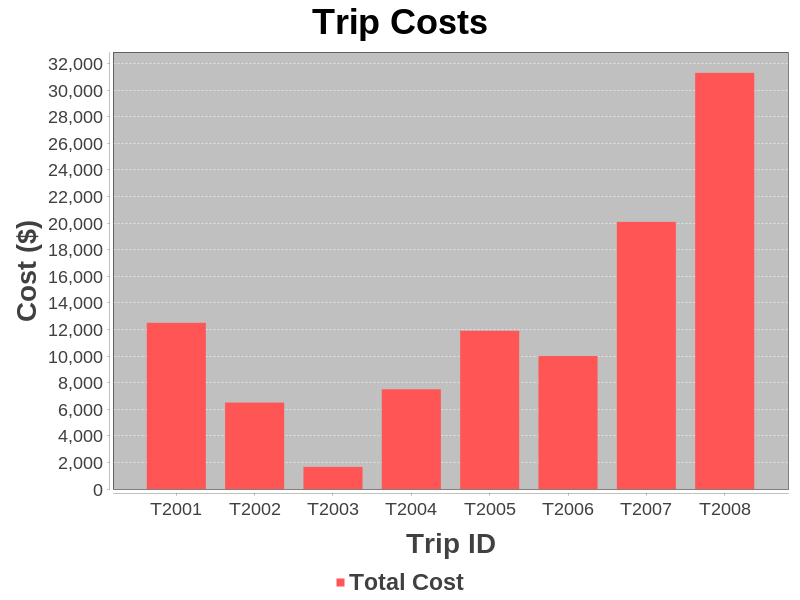
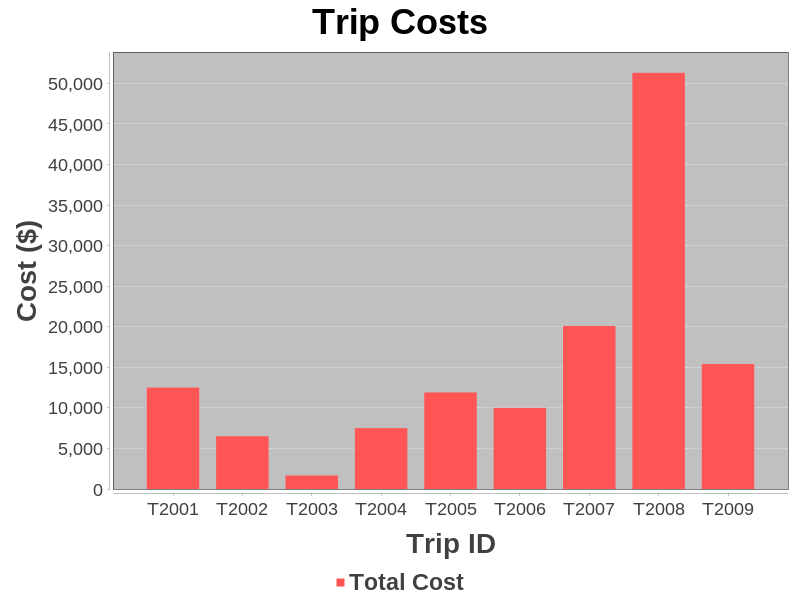
done a3

Changed region(s): [[0.1562, 0.12, 0.9688, 0.87], [0.0625, 0.09, 0.1562, 0.78], [0.1875, 0.84, 0.25, 0.87]]

diff --git a/output/dashboard/dashboard.html b/output/dashboard/dashboard.html
@@ -10,7 +10,7 @@
     <div class='container'>
         <header>
             <h1>SmartTravel Dashboard</h1>
-            <p>A2: File I/O + Exceptions | 4 Clients | 8 Trips</p>
+            <p>A3 | 4 Clients | 9 Trips</p>
         </header>
         <section class='data-section'>
             <h2> Clients (4)</h2>
@@ -35,19 +35,19 @@
                         <td><strong>C1003</strong></td>
                         <td>bob hank</td>
                         <td>hank@gmail.com</td>
-                        <td style='font-weight: bold; color: #d32f2f;'>13,565.00</td>
+                        <td style='font-weight: bold; color: #d32f2f;'>28,965.00</td>
                     </tr>
                     <tr>
                         <td><strong>C1004</strong></td>
                         <td>testing logging</td>
                         <td>hope@this.works</td>
-                        <td style='font-weight: bold; color: #d32f2f;'>61,390.00</td>
+                        <td style='font-weight: bold; color: #d32f2f;'>81,390.00</td>
                     </tr>
                 </tbody>
             </table>
         </section>
         <section class='data-section'>
-            <h2> Trips (8)</h2>
+            <h2> Trips (9)</h2>
             <table>
                 <thead>
                     <tr><th>ID</th><th>Client</th><th>Destination</th><th>Days</th><th>Price</th></tr>
@@ -107,7 +107,14 @@
                         <td>C1004</td>
                         <td>montreal</td>
                         <td>20</td>
-                        <td>$31300.00</td>
+                        <td>$51300.00</td>
+                    </tr>
+                    <tr>
+                        <td><strong>T2009</strong></td>
+                        <td>C1003</td>
+                        <td>tokyo</td>
+                        <td>15</td>
+                        <td>$15400.00</td>
                     </tr>
                 </tbody>
             </table>
@@ -130,19 +137,19 @@
             </div>
         </section>
         <section class='stats-section'>
-            <h2>Quick Stats (8 Trips)</h2>
+            <h2>Quick Stats (9 Trips)</h2>
             <div class='stat-grid'>
                 <div class='stat-item'>
                     <span class='stat-label'>Avg Trip Cost</span>
-                    <span class='stat-value'>$12,682</span>
+                    <span class='stat-value'>$15,206</span>
                 </div>
                 <div class='stat-item'>
                     <span class='stat-label'>Avg Duration</span>
-                    <span class='stat-value'>14.1 days</span>
+                    <span class='stat-value'>14.2 days</span>
                 </div>
                 <div class='stat-item'>
                     <span class='stat-label'>Total Revenue</span>
-                    <span class='stat-value'>$101,455</span>
+                    <span class='stat-value'>$136,855</span>
                 </div>
                 <div class='stat-item'>
                     <span class='stat-label'>Most Visited</span>

diff --git a/src/driver/driver.java b/src/driver/driver.java
@@ -1200,6 +1200,11 @@ public static void advancedMenu(Scanner in){
             System.out.println("Enter number of recent trips to show: ");
             int opt = in.nextInt();
             in.nextLine();
+
+            if (opt > service.getRecentTrips().size()){
+                System.out.println("There are only "+service.getRecentTrips().size()+" trips in the recent trip list");
+                break;
+            }
             service.getRecentTrips().printRecent(opt);      
             break;
         case 5:

diff --git a/src/client/Client.java b/src/client/Client.java
@@ -116,7 +116,7 @@ public class Client implements Identifiable, CsvPersistable, Comparable<Client>{
 
   @Override
   public String toString() {
-    return ("Client Id: " + clientID +
+    return ("\nClient Id: " + clientID +
         "\nFirst name: " + firstName +
         "\nLast name: " + lastName +
         "\nEmail Address: " + emailAddress);

diff --git a/src/travel/Hotel.java b/src/travel/Hotel.java
@@ -60,7 +60,7 @@ public class Hotel extends Accommadation{
 
     @Override
     public String toString(){
-        return  "HOTEL"+
+        return  "\nHOTEL"+
                 super.toString() +
                 "\nNumber of stars(1-5): " + numberOfStars +
                 "\nService fees: " + serviceFees;

diff --git a/src/travel/Hostel.java b/src/travel/Hostel.java
@@ -63,7 +63,7 @@ public class Hostel extends Accommadation {
 
     @Override
     public String toString(){
-        return "HOSTEL"+
+        return "\nHOSTEL"+
         super.toString() + 
         "\nNumber of beds: " + numberOfBeds +
         "\nFees: " + fees;
